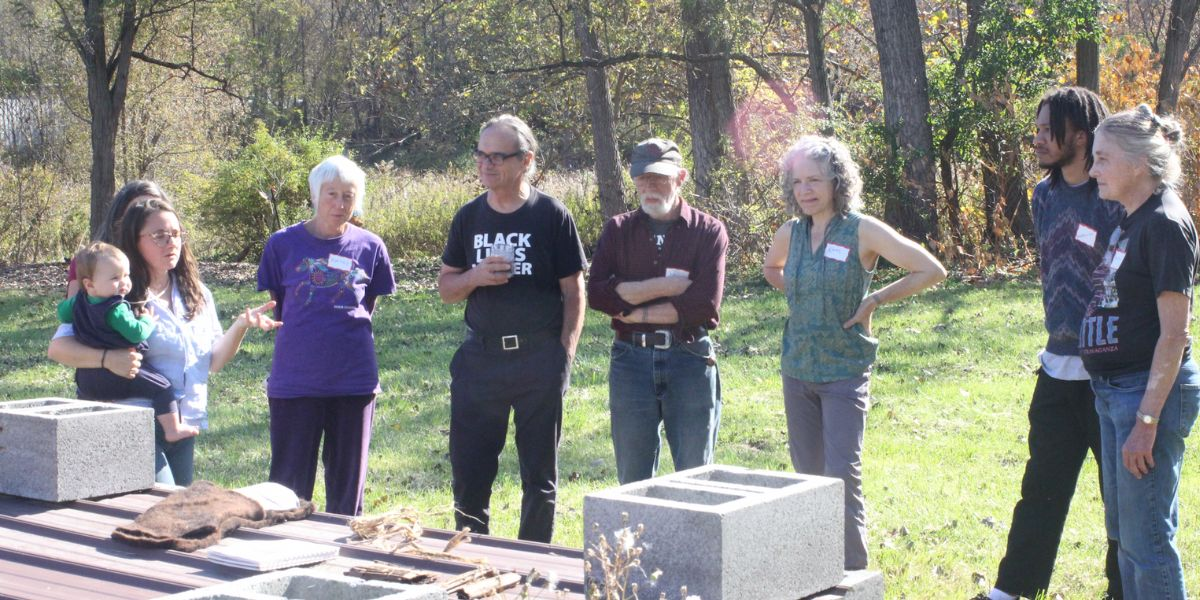
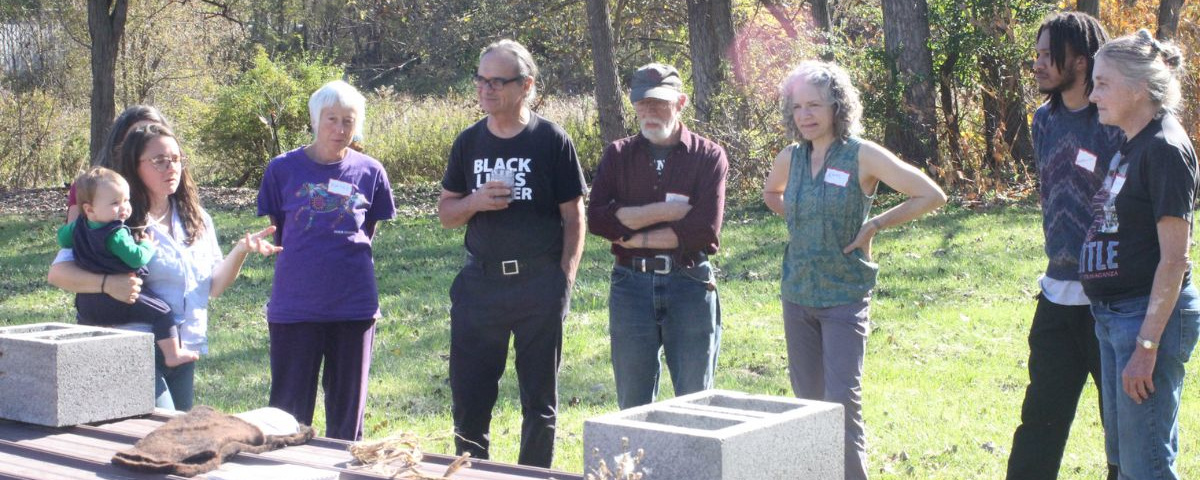
fine tune image and enforce ratios. Banenrs 5:2, sections 2:1, calendarr 4:3

diff --git a/assets/scss/main.scss b/assets/scss/main.scss
@@ -46,7 +46,7 @@ body {
 .section {
   img {
     display: flex;
-    max-height: 263px;
+    height: 263px;
     object-fit: cover;
   }
 }
@@ -88,7 +88,7 @@ button {
 
   img {
     display: flex;
-    max-height: 720px;
+    max-height: 528px;
     object-fit: cover;
   }
 
@@ -132,14 +132,16 @@ button {
 .alt-image {
   display: flex;
   align-items: center;
-  justify-content: space-between;
+  justify-content: start;
   img {
     max-width: 500px;
   }
 }
 
-.container .alt-image:nth-child(2n) {
-  flex-direction: row-reverse
+.alt-image:nth-child(2n) {
+  flex-direction: row-reverse;
+
+  justify-content: space-between;
 }
 
 @media only screen and (max-width: 992px) {
@@ -150,7 +152,7 @@ button {
       max-width: 100%;
     }
   }
-  .container .alt-image:nth-child(2n) {
+  .alt-image:nth-child(2n) {
     flex-direction: column;
   }
 }

diff --git a/layouts/_shortcodes/donation-card.html b/layouts/_shortcodes/donation-card.html
@@ -1,6 +1,6 @@
 <div class="card shadow">
   <div class="card-body">
-    <h5 class="card-title">Please consider supporting our cause!</h5>
+    <h3 class="card-title">Please consider supporting our cause!</h3>
     <p>
 <span style="font-weight: 400;"><span style="color: #000000;"><strong>
     The Soil Factory is actively working to grow our community support.

diff --git a/layouts/section.html b/layouts/section.html
@@ -19,7 +19,7 @@
 <div class="row section mt-3">
 {{ end }}
   <div class="col-md-5 col-sm-12">
-    {{- $thumb := .Params.Thumb -}}
+    {{- $thumb := .Params.Thumb | default .Params.Banner -}}
     {{- $image := .Page.Resources.GetMatch $thumb -}}
     <a href="{{ .Params.link | default .Permalink }}">
       {{- if $image }}

diff --git a/content/activities/_index.md b/content/activities/_index.md
@@ -1,5 +1,5 @@
 +++
 title = "Activities"
-banner = "https://lh3.googleusercontent.com/pw/AP1GczOgyKNQZuXdHko49WO0ZyWFaTjFrLxz6EeG1emp21MUaozV-al3CRZp5HKjrC5hVN375NDx0AjJAsmXFSgWbaU4CvB2CuViwDIf4pAjH-7nsLaeqw=w2400"
-aliases = ['/multi-disciplinary-meetings', '/movie-nights', '/exhibitions', '/residencies']
+banner = "https://lh3.googleusercontent.com/pw/AP1GczNu9AjqQH_h4jBDhCM0ovtJZqyFtjcNmKpXNGew35-zPzaY-eE64H9f2jmpB5hjxaSO8WlgjpEBpKTh9zfofYw3_FxRjb0pLHpu5DjGcBiL7G3FcQ=w2400"
+aliases = ['/projects']
 +++

diff --git a/content/calendar/_index.md b/content/calendar/_index.md
@@ -1,6 +1,6 @@
 +++
 title = "Calendar"
-banner = "https://lh3.googleusercontent.com/pw/AP1GczPj-3540gnVZ5wLk_fUuoEmHK0Cwq_dX-DsFpR5OCa_7JYtmsTSNCSITEnp5JbbgNH1TDaBDh9lNO5Ts-SUR3VMp6Fifkid0x6JtaOsqoOdrZhZ1xV-aijIeWbLV-tXpZ0Ornc5EMZkcueclrDqt4w=w1278-h562-s-no-gm"
+banner = "https://lh3.googleusercontent.com/pw/AP1GczMq_zD8E_jhI2DlmZqvGdNWZlnrVZe_WBsFH2gp95L9JaWRCLmokV2QWH1GiZCeuPi7YTXSHJg9gC1csQIyIe5uv7cAf59yJPktH7TNXRc5sGKn8Q=w2400"
 aliases = ['/calendar-2024', '/calendar-2023', '/calendar-2022']
 +++
 

diff --git a/content/activities/events/_index.md b/content/activities/events/_index.md
@@ -1,7 +1,6 @@
 +++
 title = "Featured Events"
-banner = "img/events.jpg"
-thumb = "img/events.jpg"
+banner = "https://lh3.googleusercontent.com/pw/AP1GczPiwGTy_g7upvZ3ColDO_w-jz14ElEB1ZAi3FK9XQoOzKUDCM1vVWaleqnNZgSPSx7ZR7fc5xzK-PnhBT8ddxeMiPTe3JXU-9JTGoXlDA3ummzSONA=w2400"
 order = 3
 summary = "Events take the form of performances, concerts, readings that engage audiences with diverse topics, trigger community conversations, and forge new connections."
 +++

diff --git a/content/_index.md b/content/_index.md
@@ -1,6 +1,6 @@
 +++
 title = "The Soil Factory"
-banner="https://lh3.googleusercontent.com/pw/AP1GczNlZ8OvF1o2-GBL-gobKm_F-2QGvYKAZ3Q_xkjZbgFeOusdnflPqGZe-DNoWlvmKtigLeJhjmiooOP1PxwBupKCFvY2OZS25c2qKWLxDH4p0a_XyQ=w2400"
+banner="https://lh3.googleusercontent.com/pw/AP1GczOqmebhtTeVZR6an4fMJRZ56-Fich5pl_udEc7RTbsVX3hm9MObU7kT9zRU4lzEUcpX78XlCemqr8QAIBQ0NEBeXsmaoO1bLKt4ZSdYZYW7otJLGw=w2400"
 aliases = ['/about-us', '/contact-us']
 +++
 

diff --git a/content/activities/past-projects/index.md b/content/activities/past-projects/index.md
@@ -1,7 +1,6 @@
 +++
 title = "Previous Projects"
 banner = "https://archive.thesoilfactory.org/img/2022/11/workshopcover.jpg"
-thumb = "https://archive.thesoilfactory.org/img/2022/11/workshopcover.jpg"
 link = "https://archive.thesoilfactory.org/projects"
 order = 10
 +++

diff --git a/content/activities/press/index.md b/content/activities/press/index.md
@@ -1,7 +1,6 @@
 +++
 title = "The Soil Factory Press"
-banner = "img/banner.png"
-thumb = "img/banner.png"
+banner = "img/banner.jpg"
 aliases = ['/projects/press']
 +++
 
